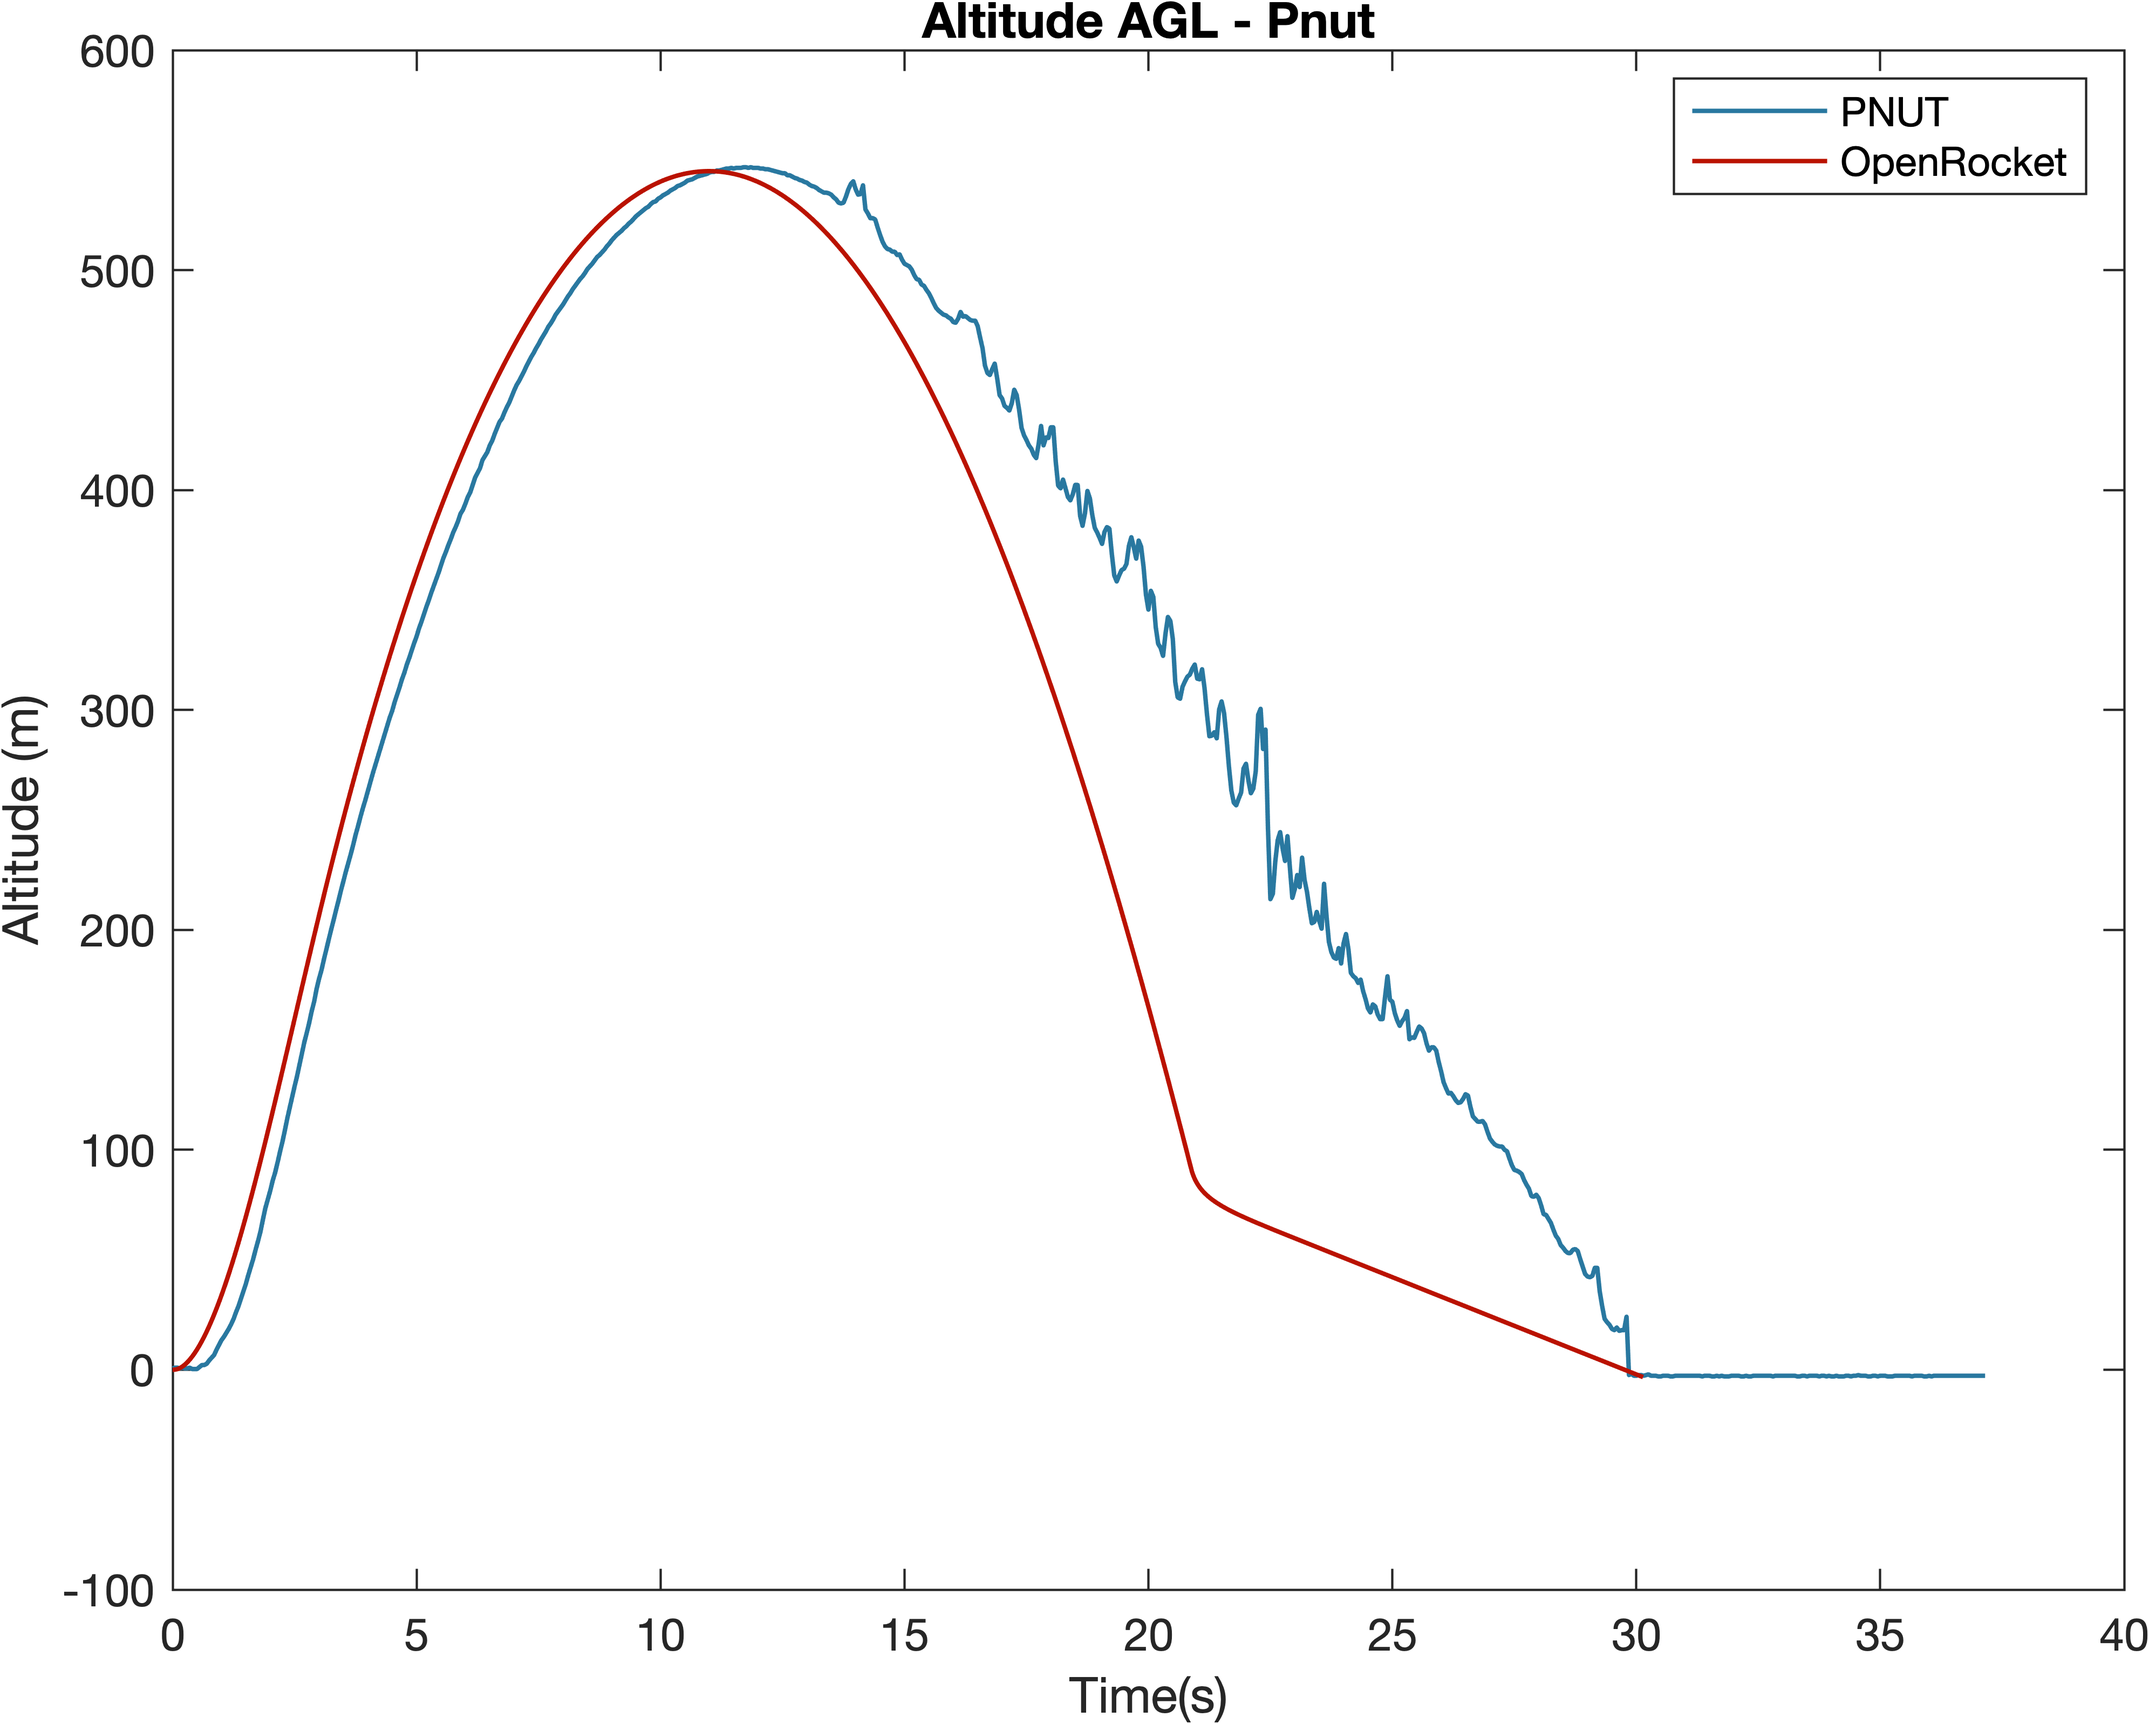
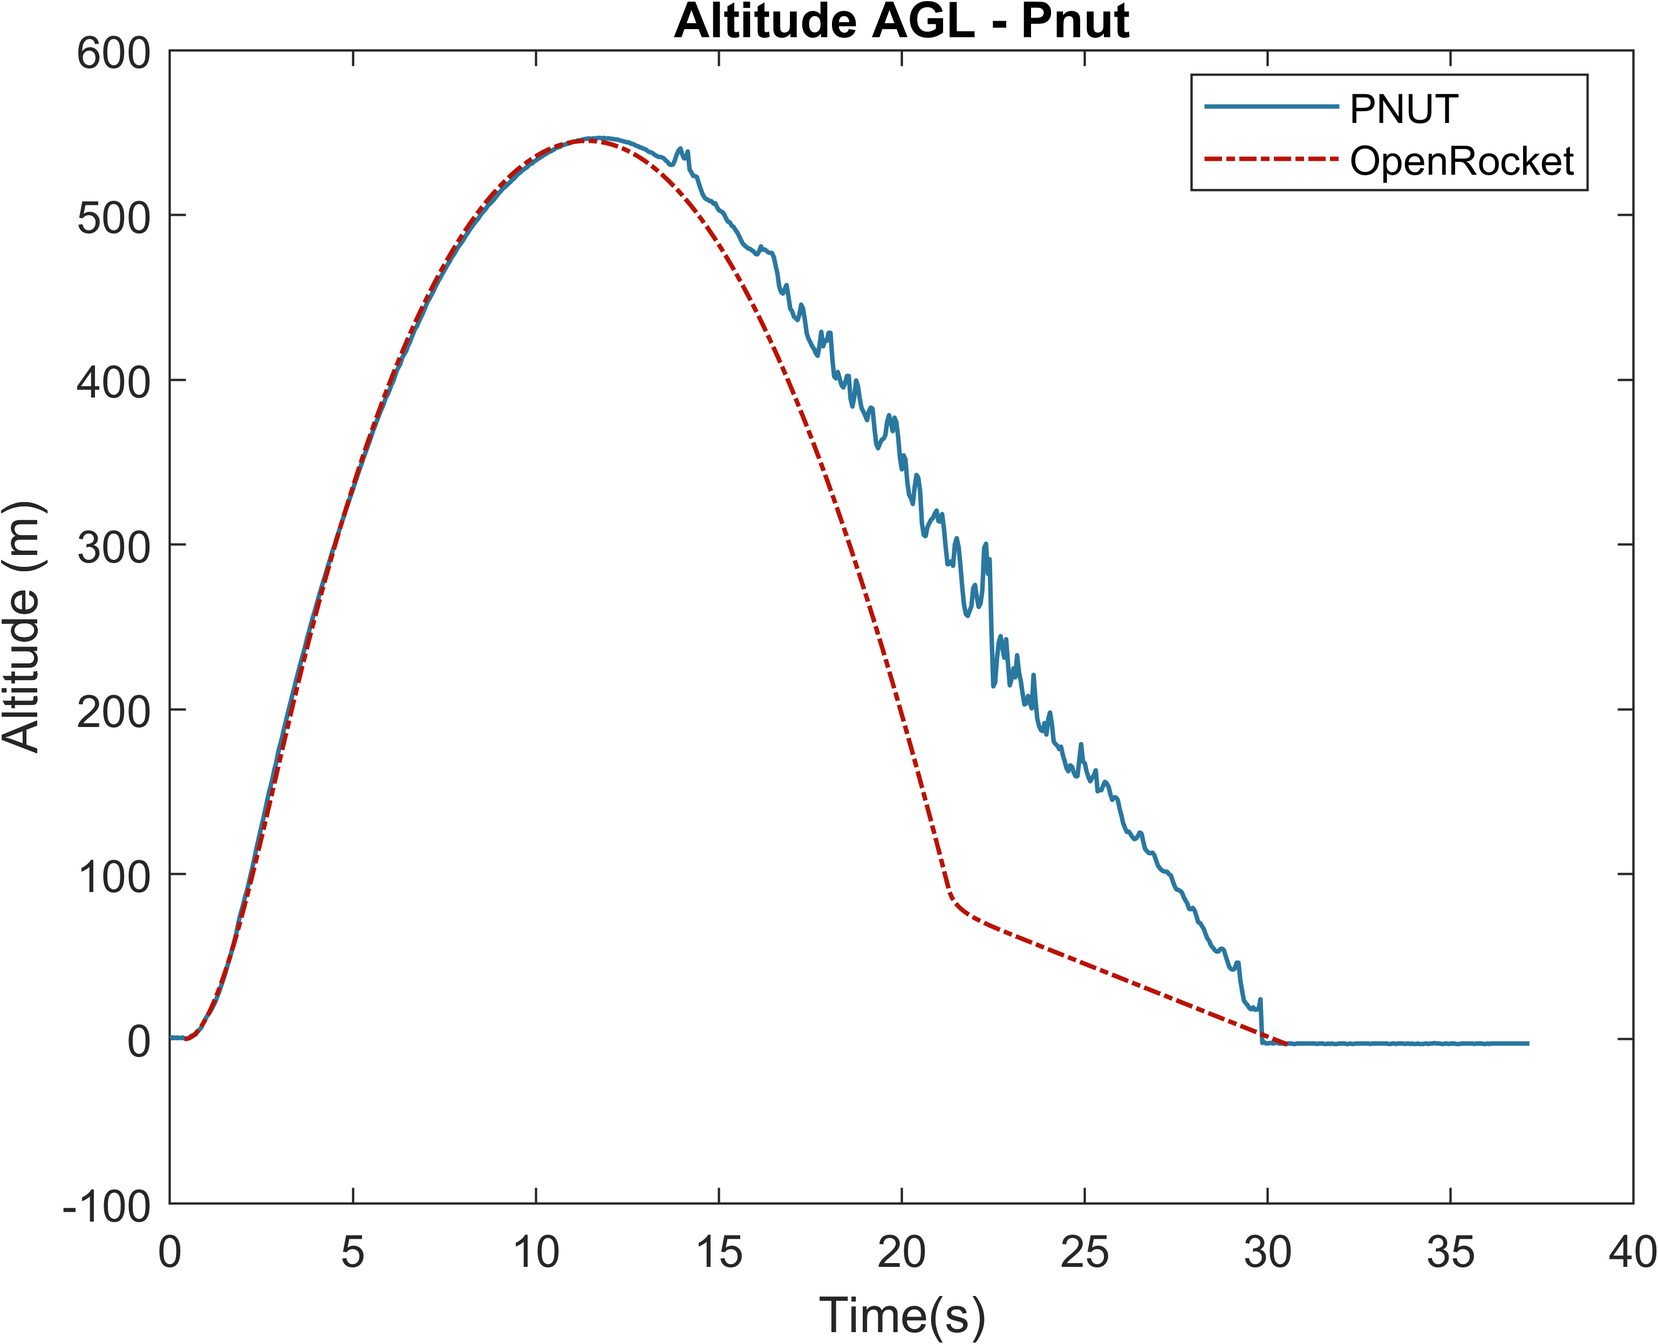
Changed altitude plot

diff --git a/data_processing/astra.m b/data_processing/astra.m
@@ -1,4 +1,5 @@
 clear
+close all
 
 %TEST
 
@@ -102,7 +103,7 @@ temp = pnut(:, 4);
 figure
 plot(t, altitude, 'LineWidth', lw, 'Color', col1)
 hold on
-plot(time, OR_alt, 'LineWidth', lw, 'Color', col2)
+plot(time+0.4,OR_alt, '-.', 'LineWidth', lw, 'Color', col2)
 hold off
 title('Altitude AGL - Pnut')
 legend('PNUT', 'OpenRocket', 'Location', 'best')
